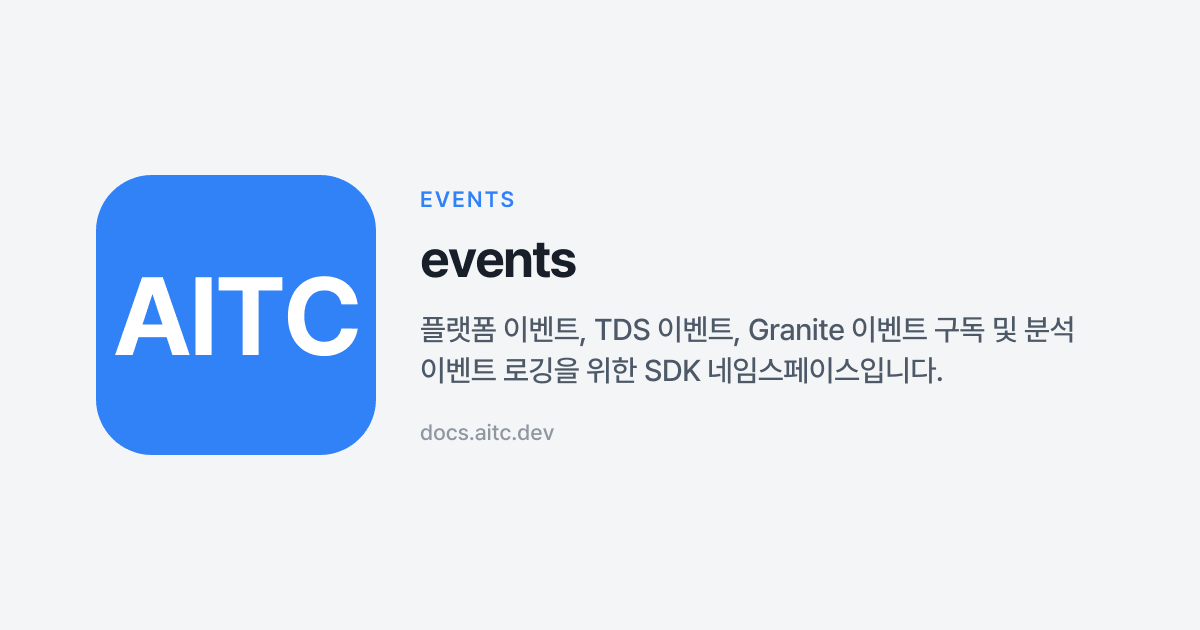
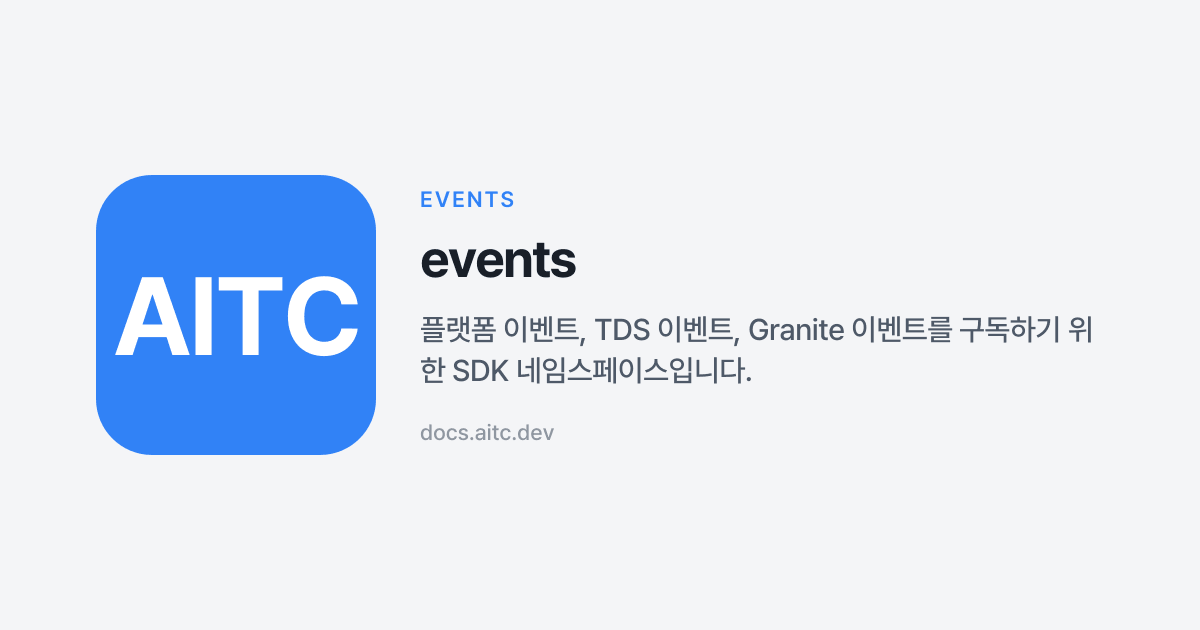
fix(api): relocate fetchAlbumPhotos→camera, contactsViral→game (#46)
sdk-example's CameraPage renders the `fetchAlbumPhotos` ApiCard and
GamePage renders the `contactsViral` ApiCard. Docs had both pages
under `contacts/`, causing the docs↔sdk-example URL contract to
break (`/api/contacts/fetchAlbumPhotos` had no matching sdk-example
deep-link target). `verify-crosslinks` flagged 4 link-rot risks.

This PR aligns docs grouping with the source of truth (sdk-example
page layout):

- `docs/api/contacts/fetchAlbumPhotos.mdx` → `docs/api/camera/`
- `docs/api/contacts/contactsViral.mdx` → `docs/api/game/`
- ditto for en mirrors
- og PNGs regenerated with the new `/og/api-<group>-<method>.png` slug
- frontmatter `image:` paths updated, `TryItLink group=` corrected
- sibling related-API links rewritten (absolute paths where the
  target moved to another namespace)

Sidebar + sdk-coverage changes:

- `sidebars.ts`: contacts → 1-method category (no overview), camera
  → 2-method category with new overview, game → adds contactsViral
- `scripts/sdk-coverage.ts` GROUP_MAP: `fetchAlbumPhotos` → camera,
  `contactsViral` → game

New camera overview (ko + en) added (per CLAUDE.md convention: 2+
methods → overview). Contacts overview removed (now 1-method).

Game + events og PNGs regenerated to reflect the updated frontmatter
descriptions from PR #44 (eventLog move) and this PR (game intro now
mentions `contactsViral` and contacts permission).

Changed region(s): [[0.3392, 0.5429, 0.8017, 0.6333], [0.7708, 0.4825, 0.925, 0.5429]]

diff --git a/sidebars.ts b/sidebars.ts
@@ -68,7 +68,11 @@ const sidebars: SidebarsConfig = {
           type: 'category',
           label: 'camera',
           collapsed: false,
-          items: ['api/camera/openCamera'],
+          items: [
+            'api/camera/camera-overview',
+            'api/camera/fetchAlbumPhotos',
+            'api/camera/openCamera',
+          ],
         },
         {
           type: 'category',
@@ -84,12 +88,7 @@ const sidebars: SidebarsConfig = {
           type: 'category',
           label: 'contacts',
           collapsed: false,
-          items: [
-            'api/contacts/contacts-overview',
-            'api/contacts/contactsViral',
-            'api/contacts/fetchAlbumPhotos',
-            'api/contacts/fetchContacts',
-          ],
+          items: ['api/contacts/fetchContacts'],
         },
         {
           type: 'category',
@@ -140,6 +139,7 @@ const sidebars: SidebarsConfig = {
           collapsed: false,
           items: [
             'api/game/game-overview',
+            'api/game/contactsViral',
             'api/game/getGameCenterGameProfile',
             'api/game/getUserKeyForGame',
             'api/game/grantPromotionReward',

diff --git a/scripts/sdk-coverage.ts b/scripts/sdk-coverage.ts
@@ -99,10 +99,10 @@ const GROUP_MAP: Record<string, string> = {
   Storage: 'storage',
   // contacts
   fetchContacts: 'contacts',
-  fetchAlbumPhotos: 'contacts',
-  contactsViral: 'contacts',
-  // camera
+  // camera — `fetchAlbumPhotos` is documented here (and rendered on
+  // sdk-example's CameraPage) even though the SDK re-exports it flat.
   openCamera: 'camera',
+  fetchAlbumPhotos: 'camera',
   // environment
   env: 'environment',
   getLocale: 'environment',
@@ -138,13 +138,14 @@ const GROUP_MAP: Record<string, string> = {
   TossAds: 'ads',
   loadFullScreenAd: 'ads',
   showFullScreenAd: 'ads',
-  // game
+  // game — `contactsViral` lives on sdk-example's GamePage so it docs here too.
   getGameCenterGameProfile: 'game',
   openGameCenterLeaderboard: 'game',
   submitGameCenterLeaderBoardScore: 'game',
   getUserKeyForGame: 'game',
   grantPromotionReward: 'game',
   grantPromotionRewardForGame: 'game',
+  contactsViral: 'game',
   // events
   appsInTossEvent: 'events',
   tdsEvent: 'events',
